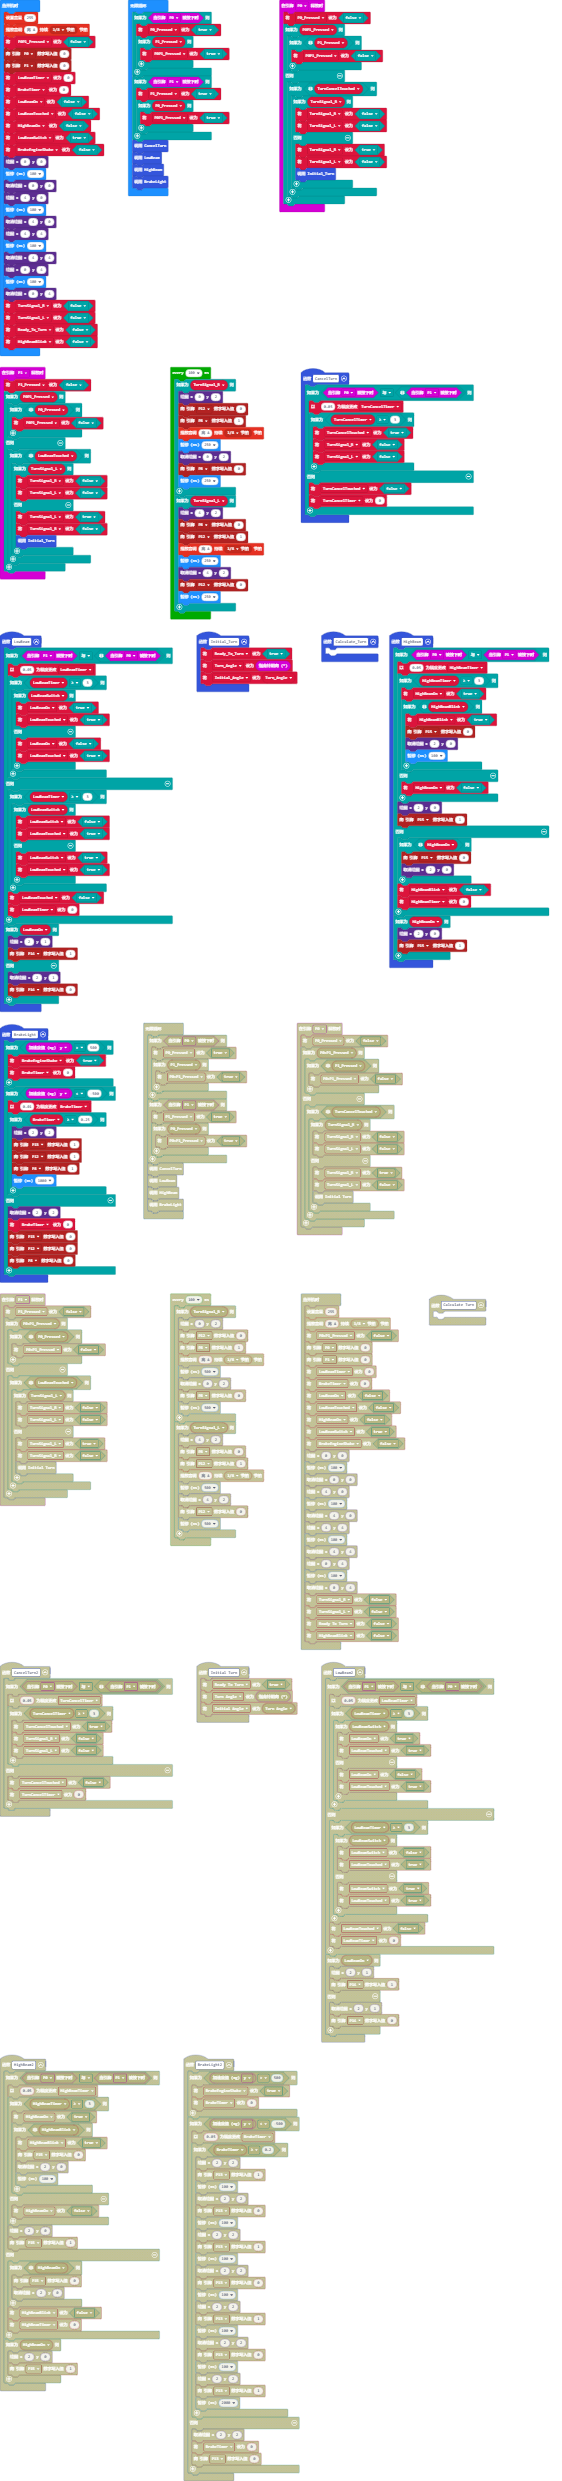
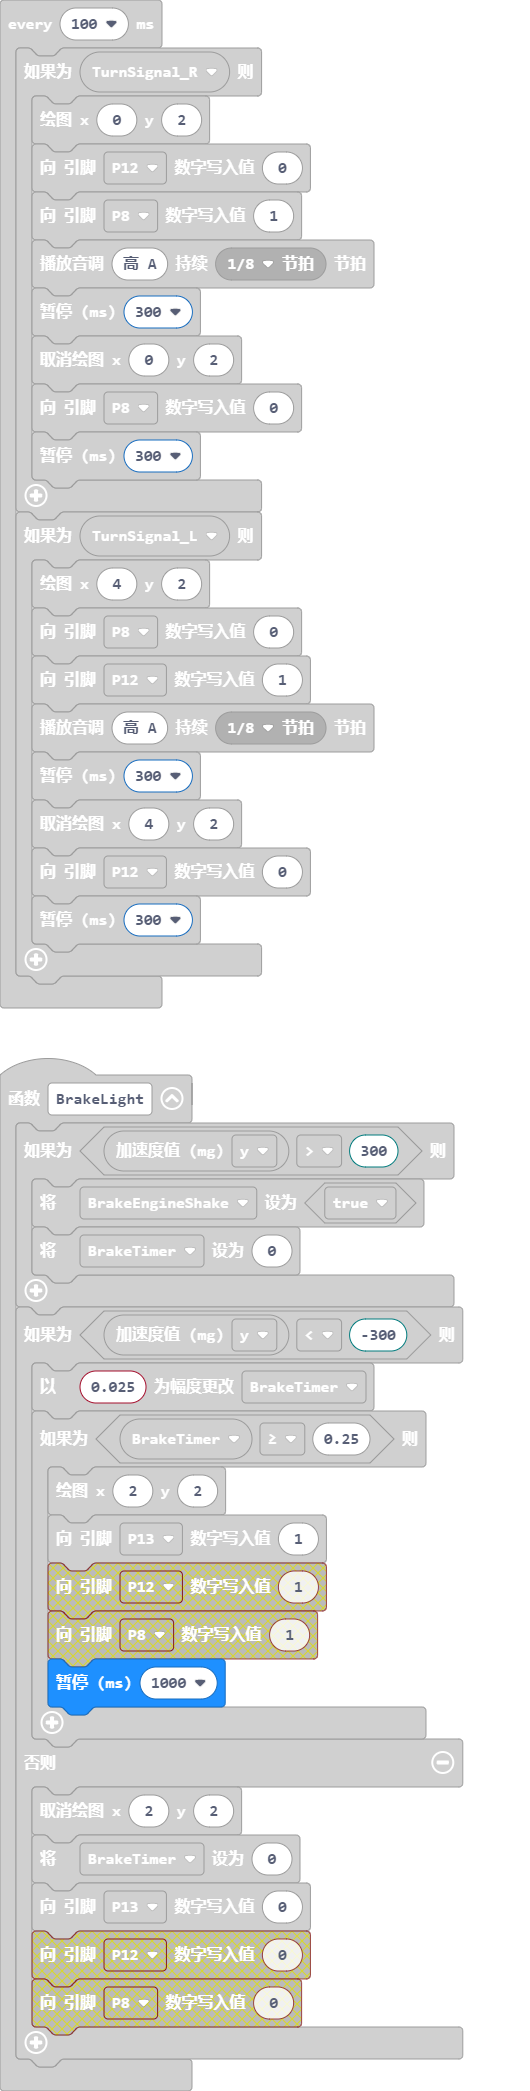
更新 main.blocks, main.ts

diff --git a/main.ts b/main.ts
@@ -123,25 +123,21 @@ input.onPinReleased(TouchPin.P1, function () {
     }
 })
 function BrakeLight () {
-    if (input.acceleration(Dimension.Y) > 500) {
+    if (input.acceleration(Dimension.Y) > 300) {
         BrakeEngineShake = true
         BrakeTimer = 0
     }
-    if (input.acceleration(Dimension.Y) < -500) {
-        BrakeTimer += 0.01
+    if (input.acceleration(Dimension.Y) < -300) {
+        BrakeTimer += 0.025
         if (BrakeTimer >= 0.25) {
             led.plot(2, 2)
             pins.digitalWritePin(DigitalPin.P13, 1)
-            pins.digitalWritePin(DigitalPin.P12, 1)
-            pins.digitalWritePin(DigitalPin.P8, 1)
             basic.pause(1000)
         }
     } else {
         led.unplot(2, 2)
         BrakeTimer = 0
         pins.digitalWritePin(DigitalPin.P13, 0)
-        pins.digitalWritePin(DigitalPin.P12, 0)
-        pins.digitalWritePin(DigitalPin.P8, 0)
     }
 }
 let HighBeamTimer = 0
@@ -215,19 +211,19 @@ loops.everyInterval(100, function () {
         pins.digitalWritePin(DigitalPin.P12, 0)
         pins.digitalWritePin(DigitalPin.P8, 1)
         music.playTone(880, music.beat(BeatFraction.Eighth))
-        basic.pause(250)
+        basic.pause(300)
         led.unplot(0, 2)
         pins.digitalWritePin(DigitalPin.P8, 0)
-        basic.pause(250)
+        basic.pause(300)
     }
     if (TurnSignal_L) {
         led.plot(4, 2)
         pins.digitalWritePin(DigitalPin.P8, 0)
         pins.digitalWritePin(DigitalPin.P12, 1)
         music.playTone(880, music.beat(BeatFraction.Eighth))
-        basic.pause(250)
+        basic.pause(300)
         led.unplot(4, 2)
         pins.digitalWritePin(DigitalPin.P12, 0)
-        basic.pause(250)
+        basic.pause(300)
     }
 })
